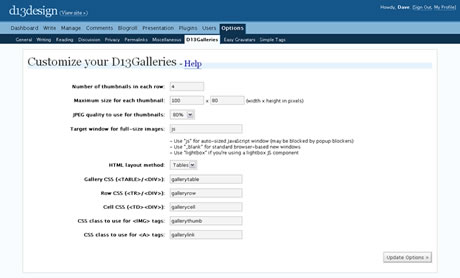
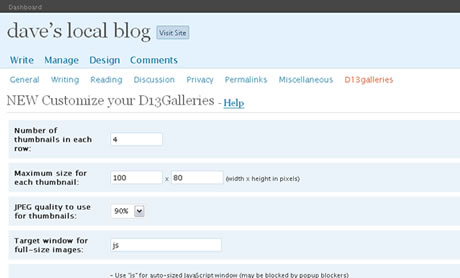
update to 3.2.0 with re-written settings code and admin pages
git-svn-id: https://plugins.svn.wordpress.org/d13gallery/trunk@45627 b8457f37-d9ea-0310-8a92-e5e31aec5664

diff --git a/d13gallery.php b/d13gallery.php
@@ -4,144 +4,114 @@ Plugin Name: d13gallery
 Plugin URI: http://www.d13design.co.uk/d13gallery/
 Description: Create simple photo galleries in your posts using the syntax <strong>{gallery}path/to/images{/gallery}</strong>.
 Author: Dave Waller
-Version: 3.1.0
+Version: 3.2.0
 Author URI: http://www.d13design.co.uk/
 */ 
 
-require("d13g_settings.php");
-
-function mt_add_pages() {
-    // Add a new menu under Options:
-    add_options_page('D13Galleries', 'D13Galleries', 10, '', 'mt_options_page');
+// Hook for adding admin menus
+add_action('admin_menu', 'd13g_add_pages');
+// Hook for adding options to DB
+add_option('d13g_numCols', 4);
+add_option('d13g_maxWidth', 100);
+add_option('d13g_maxHeight', 80);
+add_option('d13g_quality', 80);
+add_option('d13g_savethumbs', false);
+add_option('d13g_savethumbsfolder', 'd13gthumbs');
+add_option('d13g_target', '_blank');
+add_option('d13g_tblclass', 'gallerytable');
+add_option('d13g_trclass', 'galleryrow');
+add_option('d13g_tdclass', 'gallerycell');
+add_option('d13g_imgclass', 'gallerythumb');
+add_option('d13g_aclass', 'gallerylink');
+add_option('d13g_layout', 'table');
+// action function for above hook
+function d13g_add_pages() {
+    // Add a new submenu under Options:
+    add_options_page('D13galleries', 'D13galleries', 8, 'd13galleries', 'd13g_options_page');
 }
-// mt_options_page() displays the page content for the Test Options submenu
-function mt_options_page() {
-	global $d13g_numCols;
-	global $d13g_tblclass;
-	global $d13g_trclass;
-	global $d13g_tdclass;
-	global $d13g_imgclass;
-	global $d13g_aclass;
-	global $d13g_maxWidth;
-	global $d13g_maxHeight;
-	global $d13g_quality;
-	global $d13g_savethumbs;
-	global $d13g_savethumbsfolder;
-	global $d13g_target;
-	global $d13g_layout;
-    ?>
-<div class="wrap"> 
-	<h2>Customize your D13Galleries <sub style="font-size:0.7em;">- <a href="#help_main">Help</a></sub></h2> 
-	<form name="d13goptions" method="post" action="../wp-content/plugins/d13gallery/d13g_update.php">
-	<fieldset class="options">
-	<input name="action" type="hidden" value="update">
-	<table width="100%" cellspacing="2" cellpadding="5" class="editform"> 
-	<tr> 
-	<th width="33%" scope="row">Number of thumbnails in each row: </th> 
-	<td>
-	<input name="numCols" type="text" id="numCols" value="<?php echo($d13g_numCols); ?>" size="10" /></td> 
-	</tr> 
-	<tr>
-	<th scope="row">Maximum size for each thumbnail: </th>
-	<td><input name="maxWidth" type="text" id="maxWidth" value="<?php echo($d13g_maxWidth); ?>" size="10" /> 
-	  x 
-	    <input name="maxHeight" type="text" id="maxHeight" value="<?php echo($d13g_maxHeight); ?>" size="10" /> 
-	    (width x height in pixels) 	</td>
-	</tr>
-	<tr>
-	<th scope="row">JPEG quality to use for thumbnails: </th>
-	<td><select name="quality" id="quality">
-	  <option value="10" <?php if($d13g_quality == 10){ echo("selected"); } ?>>10%</option>
-	  <option value="20" <?php if($d13g_quality == 20){ echo("selected"); } ?>>20%</option>
-	  <option value="30" <?php if($d13g_quality == 30){ echo("selected"); } ?>>30%</option>
-	  <option value="40" <?php if($d13g_quality == 40){ echo("selected"); } ?>>40%</option>
-	  <option value="50" <?php if($d13g_quality == 50){ echo("selected"); } ?>>50%</option>
-	  <option value="60" <?php if($d13g_quality == 60){ echo("selected"); } ?>>60%</option>
-	  <option value="70" <?php if($d13g_quality == 70){ echo("selected"); } ?>>70%</option>
-	  <option value="80" <?php if($d13g_quality == 80){ echo("selected"); } ?>>80%</option>
-	  <option value="90" <?php if($d13g_quality == 90){ echo("selected"); } ?>>90%</option>
-	  <option value="100" <?php if($d13g_quality == 100){ echo("selected"); } ?>>100%</option>
-            </select></td>
-	</tr>
-	<!--<tr>
-	<th scope="row">Save images on the server?</th>
-	<td><select name="savethumbs" id="savethumbs">
-	  <option value="true" <?php if($d13g_savethumbs == true){ echo("selected"); } ?>>Yes</option>
-	  <option value="false" <?php if($d13g_savethumbs == false){ echo("selected"); } ?>>No</option>
-	  </select>-->
-	  <input type="hidden" name="savethumbs" id="savethumbs" value="false"/>
-	<!--</td>
-	</tr>-->
-	<tr>
-	<th scope="row">Target window for full-size images:</th>
-	<td><input name="target" type="text" id="target" value="<?php echo($d13g_target); ?>" size="25" />
-	</tr>
-	<tr>
-	<th scope="row"></th>
-	<td>- Use &quot;js&quot; for auto-sized JavaScript window (may be blocked by popup blockers)
-	<br/>- Use &quot;_blank&quot; for standard browser-based new windows
-	<br/>- Use &quot;lightbox&quot; if you're using a lightbox JS component</td>
-	</tr>
-	<tr>
-	<th scope="row">HTML layout method: </th>
-	<td><select name="layout" id="layout">
-	  <option value="css" <?php if($d13g_layout == "css"){ echo("selected"); } ?>>CSS</option>
-	  <option value="table" <?php if($d13g_layout == "table"){ echo("selected"); } ?>>Tables</option>
-       </select></td>
-	</tr>
-	<tr>
-	<th scope="row">Gallery CSS (&lt;TABLE&gt;/&lt;DIV&gt;): </th>
-	<td><input name="tblclass" type="text" id="tblclass" size="25" value="<?php echo($d13g_tblclass); ?>"/></td>
-	</tr>
-	<tr>
-	<th scope="row">Row CSS (&lt;TR&gt;/&lt;DIV&gt;): </th>
-	<td><input name="trclass" type="text" id="trclass" size="25" value="<?php echo($d13g_trclass); ?>"/></td>
-	</tr>
-	<tr>
-	<th scope="row">Cell CSS (&lt;TD&gt;&lt;DIV&gt;): </th>
-	<td><input name="tdclass" type="text" id="tdclass" size="25" value="<?php echo($d13g_tdclass); ?>"/></td>
-	</tr>
-	<tr>
-	<th scope="row">CSS class to use for &lt;IMG&gt; tags: </th>
-	<td><input name="imgclass" type="text" id="imgclass" size="25" value="<?php echo($d13g_imgclass); ?>"/></td>
-	</tr>
-	<tr>
-	<th scope="row">CSS class to use for &lt;A&gt; tags: </th>
-	<td><input name="aclass" type="text" id="aclass" size="25" value="<?php echo($d13g_aclass); ?>"/></td>
-	</tr>
-	</table> 
-	</fieldset>
-	<p class="submit">
-		<input type="submit" name="Submit" value="Update Options &raquo;" />
-	</p>
-	</form>
-	<!--<a name="d13gmanage"></a>
-	<h2>Manage your D13Galleries thumbnails</h2>
-	<form name="d13gmanage" method="post" action="../wp-content/plugins/d13g_update.php">
-		<fieldset class="options">
-		<input name="action" type="hidden" value="getDetails">
-		<table width="100%" cellspacing="2" cellpadding="5" class="editform"> 
+
+// d13g_options_page() displays the page content for the Options menu
+function d13g_options_page() { ?>
+	<div class="wrap"> 
+		<h2>NEW Customize your D13Galleries <sub style="font-size:0.7em;">- <a href="#help_main">Help</a></sub></h2> 
+		<form method="post" action="options.php">
+		<?php wp_nonce_field('update-options'); ?>
+		<input type="hidden" name="action" value="update" />
+		<table width="100%" cellspacing="2" cellpadding="5" class="form-table"> 
 		<tr> 
-		<th width="33%" scope="row">Image folder to manage: </th> 
-		<td><input name="folderName" type="text" id="folderName" value="<?php echo($_GET["d13gmanage"]); ?>" size="35" /></td>
+		<th width="33%" scope="row">Number of thumbnails in each row: </th> 
+		<td>
+		<input type="text" name="d13g_numCols" value="<?php echo get_option('d13g_numCols'); ?>" size="10"/></td> 
+		</tr> 
+		<tr>
+		<th scope="row">Maximum size for each thumbnail: </th>
+		<td><input type="text" name="d13g_maxWidth" value="<?php echo get_option('d13g_maxWidth'); ?>" size="10"/>
+		  x 
+			<input type="text" name="d13g_maxHeight" value="<?php echo get_option('d13g_maxHeight'); ?>" size="10"/>
+			(width x height in pixels) 	</td>
+		</tr>
+		<tr>
+		<th scope="row">JPEG quality to use for thumbnails: </th>
+		<td><select name="d13g_quality" id="quality">
+		  <option value="10" <?php if(get_option('d13g_quality') == 10){ echo("selected"); } ?>>10%</option>
+		  <option value="20" <?php if(get_option('d13g_quality') == 20){ echo("selected"); } ?>>20%</option>
+		  <option value="30" <?php if(get_option('d13g_quality') == 30){ echo("selected"); } ?>>30%</option>
+		  <option value="40" <?php if(get_option('d13g_quality') == 40){ echo("selected"); } ?>>40%</option>
+		  <option value="50" <?php if(get_option('d13g_quality') == 50){ echo("selected"); } ?>>50%</option>
+		  <option value="60" <?php if(get_option('d13g_quality') == 60){ echo("selected"); } ?>>60%</option>
+		  <option value="70" <?php if(get_option('d13g_quality') == 70){ echo("selected"); } ?>>70%</option>
+		  <option value="80" <?php if(get_option('d13g_quality') == 80){ echo("selected"); } ?>>80%</option>
+		  <option value="90" <?php if(get_option('d13g_quality') == 90){ echo("selected"); } ?>>90%</option>
+		  <option value="100" <?php if(get_option('d13g_quality') == 100){ echo("selected"); } ?>>100%</option>
+				</select></td>
+		</tr>
+		<tr>
+		<th scope="row">Target window for full-size images:</th>
+		<td><input type="text" name="d13g_target" value="<?php echo get_option('d13g_target'); ?>" size="25"/></td>
 		</tr>
 		<tr>
 		<th scope="row"></th>
-		<td>Use the same folder path as you would when placing a gallery in a post.<br/>
-		eg. "{gallery}images/wedding{/gallery}" use "images/wedding"</td>
+		<td>- Use &quot;js&quot; for auto-sized JavaScript window (may be blocked by popup blockers)
+		<br/>- Use &quot;_blank&quot; for standard browser-based new windows
+		<br/>- Use &quot;lightbox&quot; if you're using a lightbox JS component</td>
 		</tr>
-		</table>
-		</fieldset>
+		<tr>
+		<th scope="row">HTML layout method: </th>
+		<td><select name="d13g_layout" id="layout">
+		  <option value="css" <?php if(get_option('d13g_layout') == "css"){ echo("selected"); } ?>>CSS</option>
+		  <option value="table" <?php if(get_option('d13g_layout') == "table"){ echo("selected"); } ?>>Tables</option>
+		   </select></td>
+		</tr>
+		<tr>
+		<th scope="row">Gallery CSS (&lt;TABLE&gt;/&lt;DIV&gt;): </th>
+		<td><input name="d13g_tblclass" type="text" id="tblclass" size="25" value="<?php echo(get_option('d13g_tblclass')); ?>"/></td>
+		</tr>
+		<tr>
+		<th scope="row">Row CSS (&lt;TR&gt;/&lt;DIV&gt;): </th>
+		<td><input name="d13g_trclass" type="text" id="trclass" size="25" value="<?php echo(get_option('d13g_trclass')); ?>"/></td>
+		</tr>
+		<tr>
+		<th scope="row">Cell CSS (&lt;TD&gt;&lt;DIV&gt;): </th>
+		<td><input name="d13g_tdclass" type="text" id="tdclass" size="25" value="<?php echo(get_option('d13g_tdclass')); ?>"/></td>
+		</tr>
+		<tr>
+		<th scope="row">CSS class to use for &lt;IMG&gt; tags: </th>
+		<td><input name="d13g_imgclass" type="text" id="imgclass" size="25" value="<?php echo(get_option('d13g_imgclass')); ?>"/></td>
+		</tr>
+		<tr>
+		<th scope="row">CSS class to use for &lt;A&gt; tags: </th>
+		<td><input name="d13g_aclass" type="text" id="aclass" size="25" value="<?php echo(get_option('d13g_aclass')); ?>"/></td>
+		</tr>
+		</table> 
+		<input type="hidden" name="page_options" value="d13g_numCols,d13g_maxWidth,d13g_maxHeight,d13g_quality,d13g_target,d13g_tblclass,d13g_trclass,d13g_tdclass,d13g_imgclass,d13g_aclass,d13g_layout" />
 		<p class="submit">
-			<input type="button" name="stats" value="Get Folder Statistics &raquo;" onClick="document.forms['d13gmanage'].action.value='stat';document.forms['d13gmanage'].submit();"/> <input type="button" name="kill" value="Kill Thumbnails &raquo;" onClick="if(window.confirm('Are you sure that you want to kill the thumbnails for this folder?')){document.forms['d13gmanage'].action.value='kill';document.forms['d13gmanage'].submit();}"/>
+			<input type="submit" name="Submit" value="<?php _e('Update Options &raquo;') ?>" />
 		</p>
-	</form>-->
-</div>
+		</form>
+	</div>
+	<p>&nbsp;</p>
 	<?php require("d13g_help.php"); ?>
-	<?php
-}
-// Insert the mt_add_pages() sink into the plugin hook list for 'admin_menu'
-add_action('admin_menu', 'mt_add_pages');
+<?php }
 
 //Core functions - do not edit below this point...
 function d13gallery_replace($content){
@@ -183,19 +153,19 @@ function d13gallery_replace($content){
 //this function will create an image gallery from a specified folder...
 function createGallery($d13g_galleryelements){
 	$d13g_path = $d13g_galleryelements[0];
-	global $d13g_numCols; if($d13g_galleryelements[1]){ $d13g_numColsb=$d13g_galleryelements[1]; }else{ $d13g_numColsb=$d13g_numCols; }
-	global $d13g_tblclass;
-	global $d13g_trclass;
-	global $d13g_tdclass;
-	global $d13g_imgclass;
-	global $d13g_aclass;
-	global $d13g_maxWidth; if($d13g_galleryelements[2]){ $d13g_maxWidthb=$d13g_galleryelements[2]; }else{ $d13g_maxWidthb=$d13g_maxWidth; }
-	global $d13g_maxHeight; if($d13g_galleryelements[3]){ $d13g_maxHeightb=$d13g_galleryelements[3]; }else{ $d13g_maxHeightb=$d13g_maxHeight; }
-	global $d13g_quality; if($d13g_galleryelements[4]){ $d13g_qualityb=$d13g_galleryelements[4]; }else{ $d13g_qualityb=$d13g_quality; }
-	global $d13g_target; if($d13g_galleryelements[5]){ $d13g_targetb=$d13g_galleryelements[5]; }else{ $d13g_targetb=$d13g_target; }
-	global $d13g_savethumbs;
-	global $d13g_savethumbsfolder;
-	global $d13g_layout;
+	if($d13g_galleryelements[1]){ $d13g_numCols=$d13g_galleryelements[1]; }else{ $d13g_numCols=get_option('d13g_numCols'); }
+	$d13g_tblclass = get_option('d13g_tblclass');
+	$d13g_trclass = get_option('d13g_trclass');
+	$d13g_tdclass = get_option('d13g_tdclass');
+	$d13g_imgclass = get_option('d13g_imgclass');
+	$d13g_aclass = get_option('d13g_aclass');
+	if($d13g_galleryelements[2]){ $d13g_maxWidth=$d13g_galleryelements[2]; }else{ $d13g_maxWidth=get_option('d13g_maxWidth'); }
+	if($d13g_galleryelements[3]){ $d13g_maxHeight=$d13g_galleryelements[3]; }else{ $d13g_maxHeight=get_option('d13g_maxHeight'); }
+	if($d13g_galleryelements[4]){ $d13g_quality=$d13g_galleryelements[4]; }else{ $d13g_quality=get_option('d13g_quality'); }
+	if($d13g_galleryelements[5]){ $d13g_target=$d13g_galleryelements[5]; }else{ $d13g_target=get_option('d13g_target'); }
+	$d13g_savethumbs = get_option('d13g_savethumbs');
+	$d13g_savethumbsfolder = get_option('d13g_savethumbsfolder');
+	$d13g_layout = get_option('d13g_layout');
 	//create HTML tags...
 	if($d13g_layout=="css"){
 		$gallery_start = "<div class=\"$d13g_tblclass\">";
@@ -250,15 +220,15 @@ function createGallery($d13g_galleryelements){
 						}
 						list($d13gfullwidth, $d13gfullheight) = getimagesize(/*$d13g_siteurl."/".*/$d13g_path."/".$d13g_file);
 
-							if($d13g_targetb == "js"){
-								$d13g_temp = $d13g_temp.$thumb_start."<a href=\"#$d13g_path/$d13g_file\" onClick=\"d13gfull=window.open('','','width=$d13gfullwidth,height=$d13gfullheight,menubar=no,toolbar=no,location=no,resizable=yes,scrollbars=no');d13gfull.document.write('<html><head><title>d13gallery fullsize image</title></head><body leftmargin=0 topmargin=0 marginwidth=0 marginheight=0><img src=\'$d13g_siteurl/$d13g_path/$d13g_file\'></body></html>');\" name=\"$d13g_path/$d13g_file\" class=\"$d13g_aclass\"><img src=\"$d13g_siteurl/wp-content/plugins/d13gallery/d13thumbnail.php?path=../../../$d13g_path/$d13g_file&amp;w=$d13g_maxWidthb&amp;h=$d13g_maxHeightb&amp;q=$d13g_qualityb\" class=\"$d13g_imgclass\" alt=\"$d13g_path/$d13g_file\"/></a>".$thumb_end;
-							}else if($d13g_targetb == "lightbox"){
-								$d13g_temp = $d13g_temp.$thumb_start."<a rel=\"lightbox[$d13g_path]\" href=\"$d13g_siteurl/$d13g_path/$d13g_file\" class=\"$d13g_aclass\"><img src=\"$d13g_siteurl/wp-content/plugins/d13gallery/d13thumbnail.php?path=../../../$d13g_path/$d13g_file&amp;w=$d13g_maxWidthb&amp;h=$d13g_maxHeightb&amp;q=$d13g_qualityb\" class=\"$d13g_imgclass\" alt=\"$d13g_path/$d13g_file\"/></a>".$thumb_end;
+							if($d13g_target == "js"){
+								$d13g_temp = $d13g_temp.$thumb_start."<a href=\"#$d13g_path/$d13g_file\" onClick=\"d13gfull=window.open('','','width=$d13gfullwidth,height=$d13gfullheight,menubar=no,toolbar=no,location=no,resizable=yes,scrollbars=no');d13gfull.document.write('<html><head><title>d13gallery fullsize image</title></head><body leftmargin=0 topmargin=0 marginwidth=0 marginheight=0><img src=\'$d13g_siteurl/$d13g_path/$d13g_file\'></body></html>');\" name=\"$d13g_path/$d13g_file\" class=\"$d13g_aclass\"><img src=\"$d13g_siteurl/wp-content/plugins/d13gallery/d13thumbnail.php?path=../../../$d13g_path/$d13g_file&amp;w=$d13g_maxWidth&amp;h=$d13g_maxHeight&amp;q=$d13g_quality\" class=\"$d13g_imgclass\" alt=\"$d13g_path/$d13g_file\"/></a>".$thumb_end;
+							}else if($d13g_target == "lightbox"){
+								$d13g_temp = $d13g_temp.$thumb_start."<a rel=\"lightbox[$d13g_path]\" href=\"$d13g_siteurl/$d13g_path/$d13g_file\" class=\"$d13g_aclass\"><img src=\"$d13g_siteurl/wp-content/plugins/d13gallery/d13thumbnail.php?path=../../../$d13g_path/$d13g_file&amp;w=$d13g_maxWidth&amp;h=$d13g_maxHeight&amp;q=$d13g_quality\" class=\"$d13g_imgclass\" alt=\"$d13g_path/$d13g_file\"/></a>".$thumb_end;
 							}else{
-								$d13g_temp = $d13g_temp.$thumb_start."<a href=\"$d13g_siteurl/$d13g_path/$d13g_file\" target=\"$d13g_target\" class=\"$d13g_aclass\"><img src=\"$d13g_siteurl/wp-content/plugins/d13gallery/d13thumbnail.php?path=../../../$d13g_path/$d13g_file&amp;w=$d13g_maxWidthb&amp;h=$d13g_maxHeightb&amp;q=$d13g_qualityb\" class=\"$d13g_imgclass\" alt=\"$d13g_path/$d13g_file\"/></a>".$thumb_end;
+								$d13g_temp = $d13g_temp.$thumb_start."<a href=\"$d13g_siteurl/$d13g_path/$d13g_file\" target=\"$d13g_target\" class=\"$d13g_aclass\"><img src=\"$d13g_siteurl/wp-content/plugins/d13gallery/d13thumbnail.php?path=../../../$d13g_path/$d13g_file&amp;w=$d13g_maxWidth&amp;h=$d13g_maxHeight&amp;q=$d13g_quality\" class=\"$d13g_imgclass\" alt=\"$d13g_path/$d13g_file\"/></a>".$thumb_end;
 							}
 						
-						if($d13g_col == $d13g_numColsb){
+						if($d13g_col == $d13g_numCols){
 							$d13g_temp = $d13g_temp.$row_end;
 							$d13g_col = 1;
 						}else{

diff --git a/d13g_help.php b/d13g_help.php
@@ -73,7 +73,6 @@
 	<a name="help_section_6" id="help_section_6"></a>
 	<h3>6. Work still to come</h3>
 	<ul>
-	  <li>Streamline plugin code - especially references between plugin files</li>
-      <li>All saving of generated thumbnails  </li>
+      <li>Saving of generated thumbnails  </li>
   </ul>
 </div> 
